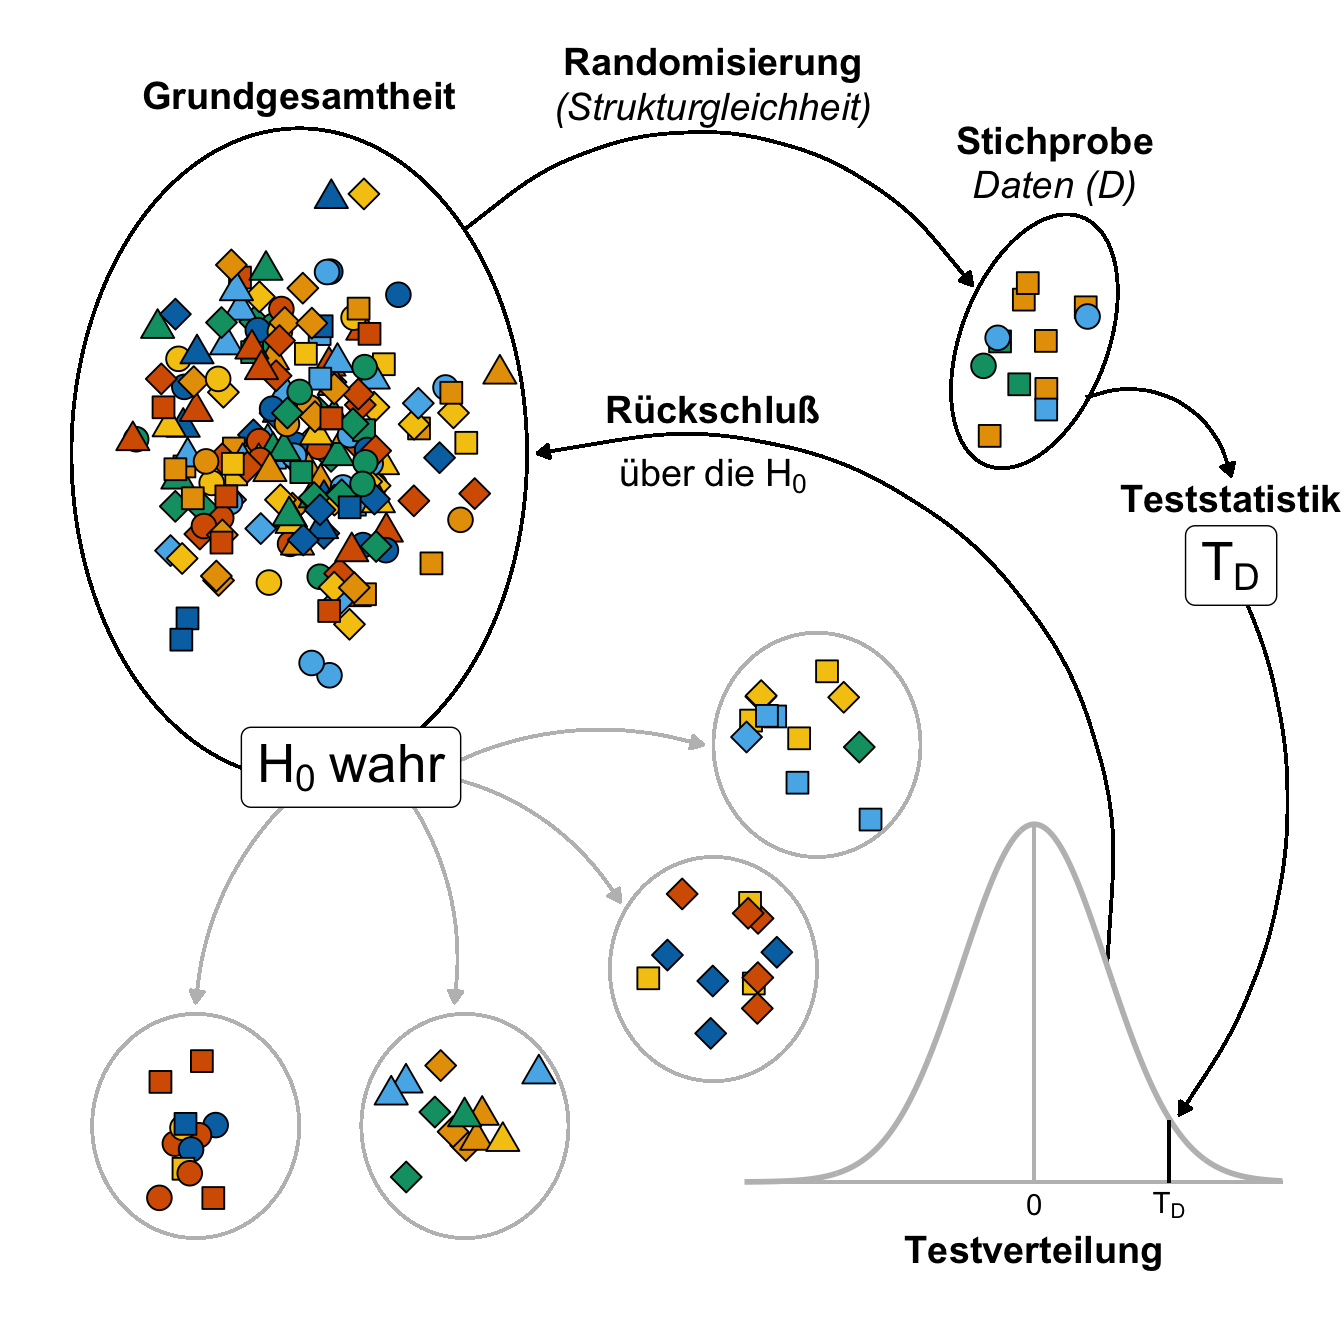
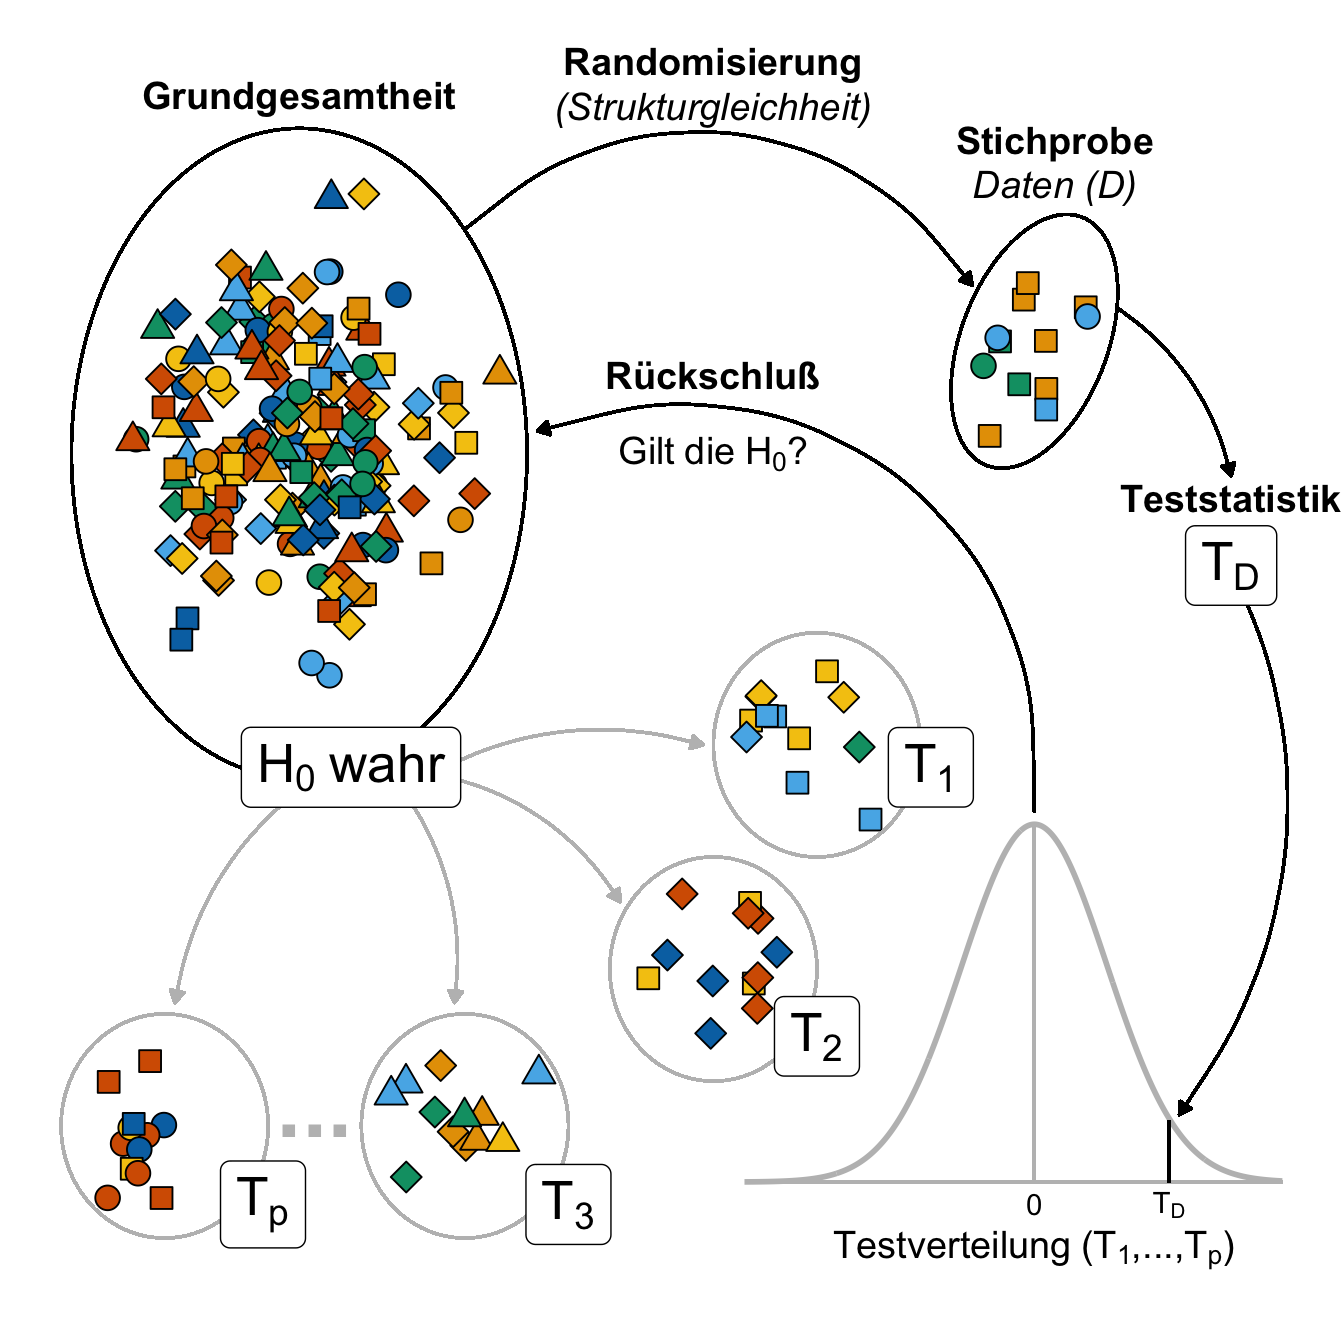
added

diff --git a/docs/stat-tests-preface-theory.html b/docs/stat-tests-preface-theory.html
@@ -799,7 +799,7 @@ window.Quarto = {
 </header>
 
 
-<p><em>Letzte Änderung am 08. April 2024 um 10:06:56</em></p>
+<p><em>Letzte Änderung am 08. April 2024 um 11:01:21</em></p>
 <blockquote class="blockquote">
 <p><em>“Das ist die Logik der Forschung, die nie verifizieren, sondern immer nur jene Erklärungen beibehalten kann, die beim derzeitigen Erkenntnisstand am wenigsten falsifiziert sind.” — Wößmann, L.</em></p>
 </blockquote>
@@ -837,7 +837,7 @@ Beispiel: Bin ich im Urlaub?
 </div>
 <p>Die <em>frequentistische Statistik</em> basiert - wie der Name andeutet - auf Wiederholungen in einem Versuch. Daher der Name frequentistisch. Also eine Frequenz von Beobachtungen. Ist ein wenig gewollt, aber daran gewöhnen wir uns schon mal. Konkret, ein Experiment welches wir frequentistisch Auswerten wollen besteht immer aus biologischen Wiederholungen. Wir müssen also ein Experiment planen in dem wir wiederholt ein Outcome an vielen Tieren, Pflanzen oder Menschen messen. Auf das Outcome gehen wir noch später ein. Im Weiteren konzentrieren wir uns hier auf die <em>parametrische</em> Statistik. Die parametrische Statistik beschäftigt sich mit Parametern von Verteilungen.</p>
 <p>Wenn wir nun ein Experiment durchführen dann erheben wir einmalig Daten <span class="math inline">\(D_1\)</span>. Wir könnten das Experiment wiederholen und erneut Daten <span class="math inline">\(D_2\)</span> erheben. Wir können das Experiment <span class="math inline">\(j\)</span>-mal wiederholen und haben dann Daten von <span class="math inline">\(D_1,..., D_j\)</span>. Dennoch werden wir nie <em>alle</em> Daten erheben können, die mit einem Experiment verbunden sind.</p>
-<p>Nehmen wir das Beispiel, dass wir die Sprungweite von Hunde- und Katzenflöhen vergleichen wollen. Wir können nicht <em>alle</em> Hunde- und Katzenflöhe messen. Wir können nur eine Stichprobe an Daten <span class="math inline">\(D_1\)</span> erheben. Über diese Daten <span class="math inline">\(D_1\)</span> können wir dann später durch statistische Algorithmen eine Aussage treffen. Wichtig ist hier sich zu merken, dass wir eine Grundgesamtheit haben aus der wir eine Stichprobe ziehen. Wir müssen darauf achten, dass die Stichprobe <em>repräsentativ</em> ist und damit <em>strukturgleich</em> zur Grundgesamtheit ist. Die Strukturgleichkeit erreichen wir durch Randomisierung. Wir veranschaulichen diesen Zusammenhang in <a href="#fig-grundgesamtheit-schema" class="quarto-xref">Abbildung&nbsp;<span>3</span></a>. Ein Rückschluss von der Stichprobe ist nur möglich, wenn die Stichprobe die Grundgesamtheit repräsentiert. Auch eine Randomisierung mag dieses Ziel nicht immer erreichen. Im Beispiel der Hundeflöhe könnte wir eine Art an Flöhen übersehen und diese Flohart nicht mit in die Stichprobe aufnehmen. Ein Rückschluß auf diese Flohart wäre dann mit unserem Experiment nicht möglich.</p>
+<p>Nehmen wir das Beispiel, dass wir die Sprungweite von Hunde- und Katzenflöhen vergleichen wollen. Wir können nicht <em>alle</em> Hunde- und Katzenflöhe messen. Wir können nur eine Stichprobe an Daten <span class="math inline">\(D_1\)</span> erheben. Über diese Daten <span class="math inline">\(D_1\)</span> können wir dann später durch statistische Algorithmen eine Aussage treffen. Wichtig ist hier sich zu merken, dass wir eine Grundgesamtheit haben aus der wir eine Stichprobe ziehen. Wir müssen darauf achten, dass die Stichprobe <em>repräsentativ</em> ist und damit <em>strukturgleich</em> zur Grundgesamtheit ist. Die Strukturgleichkeit erreichen wir durch Randomisierung. Wir veranschaulichen diesen Zusammenhang in <a href="#fig-grundgesamtheit-schema" class="quarto-xref">Abbildung&nbsp;<span>2</span></a>. Ein Rückschluss von der Stichprobe ist nur möglich, wenn die Stichprobe die Grundgesamtheit repräsentiert. Auch eine Randomisierung mag dieses Ziel nicht immer erreichen. Im Beispiel der Hundeflöhe könnte wir eine Art an Flöhen übersehen und diese Flohart nicht mit in die Stichprobe aufnehmen. Ein Rückschluß auf diese Flohart wäre dann mit unserem Experiment nicht möglich.</p>
 <div class="cell" data-layout-align="center">
 <div class="cell-output-display">
 <div id="fig-test-preface-theory-01" class="quarto-figure quarto-figure-center quarto-float anchored" data-fig-align="center">
@@ -854,27 +854,17 @@ Abbildung&nbsp;1— foo. <em>[Zum Vergrößern anklicken]</em>
 </div>
 <div class="cell" data-layout-align="center">
 <div class="cell-output-display">
-<div id="fig-test-preface-theory-02" class="quarto-figure quarto-figure-center quarto-float anchored" data-fig-align="center">
-<figure class="quarto-float quarto-float-fig figure">
-<div aria-describedby="fig-test-preface-theory-02-caption-0ceaefa1-69ba-4598-a22c-09a6ac19f8ca">
-<a href="stat-tests-preface-theory_files/figure-html/fig-test-preface-theory-02-1.png" class="lightbox" data-gallery="quarto-lightbox-gallery-2" data-glightbox="description: .lightbox-desc-2"><img src="stat-tests-preface-theory_files/figure-html/fig-test-preface-theory-02-1.png" class="img-fluid quarto-figure quarto-figure-center figure-img" width="672"></a>
-</div>
-<figcaption class="quarto-float-caption-bottom quarto-float-caption quarto-float-fig" id="fig-test-preface-theory-02-caption-0ceaefa1-69ba-4598-a22c-09a6ac19f8ca">
-Abbildung&nbsp;2— foo. <em>[Zum Vergrößern anklicken]</em>
-</figcaption>
-</figure>
-</div>
-</div>
-</div>
 <div id="fig-grundgesamtheit-schema" class="quarto-figure quarto-figure-center quarto-float anchored" data-fig-align="center">
 <figure class="quarto-float quarto-float-fig figure">
 <div aria-describedby="fig-grundgesamtheit-schema-caption-0ceaefa1-69ba-4598-a22c-09a6ac19f8ca">
-<a href="images/test_theory/preface-grundgesamtheit.png" class="lightbox" data-gallery="quarto-lightbox-gallery-3" data-glightbox="description: .lightbox-desc-3"><img src="images/test_theory/preface-grundgesamtheit.png" class="img-fluid quarto-figure quarto-figure-center figure-img" style="width:80.0%"></a>
+<a href="stat-tests-preface-theory_files/figure-html/fig-grundgesamtheit-schema-1.png" class="lightbox" data-gallery="quarto-lightbox-gallery-2" data-glightbox="description: .lightbox-desc-2"><img src="stat-tests-preface-theory_files/figure-html/fig-grundgesamtheit-schema-1.png" class="img-fluid quarto-figure quarto-figure-center figure-img" width="672"></a>
 </div>
 <figcaption class="quarto-float-caption-bottom quarto-float-caption quarto-float-fig" id="fig-grundgesamtheit-schema-caption-0ceaefa1-69ba-4598-a22c-09a6ac19f8ca">
-Abbildung&nbsp;3— Abbildung über die Grundgesamtheit und die Stichprobe(n) <span class="math inline">\(D_1\)</span> bis <span class="math inline">\(D_j\)</span>. Durch Randomisierung wird Sturkturgleichheit erreicht, die dann einen Rückschluß von der Stichprobe auf die Grundgesamtheit erlaubt. Jede Stichprobe ist anders und nicht jede Randomisierung ist erfolgreich was die Strukturgleicheit betrifft.
+Abbildung&nbsp;2— Abbildung über die Grundgesamtheit und die Stichprobe(n) <span class="math inline">\(D_1\)</span> bis <span class="math inline">\(D_j\)</span>. Durch Randomisierung wird Sturkturgleichheit erreicht, die dann einen Rückschluß von der Stichprobe auf die Grundgesamtheit erlaubt. Jede Stichprobe ist anders und nicht jede Randomisierung ist erfolgreich was die Strukturgleicheit betrifft. <em>[Zum Vergrößern anklicken]</em>
 </figcaption>
 </figure>
+</div>
+</div>
 </div>
 <p><a href="#tbl-grundgesamtheit-stichprobe" class="quarto-xref">Tabelle&nbsp;<span>1</span></a> zeigt nochmal die Zusammenfassung von der Grundgesamtheit un der Stichprobe im Vergleich. Wichtig ist zu merken, dass wir mit unserem kleinen Experiment Daten <span class="math inline">\(D\)</span> generieren mit denen wir einen Rückschluß und somit eine Verallgemeinerung erreichen wollen.</p>
 <div id="tbl-grundgesamtheit-stichprobe" class="quarto-float anchored">
@@ -922,8 +912,7 @@ Tabelle&nbsp;1— Vergleich von Grundgesamtheit und Stichprobe.
 
 <div class="hidden" aria-hidden="true">
 <span class="glightbox-desc lightbox-desc-1">Abbildung&nbsp;1— foo. <em>[Zum Vergrößern anklicken]</em></span>
-<span class="glightbox-desc lightbox-desc-2">Abbildung&nbsp;2— foo. <em>[Zum Vergrößern anklicken]</em></span>
-<span class="glightbox-desc lightbox-desc-3">Abbildung&nbsp;3— Abbildung über die Grundgesamtheit und die Stichprobe(n) <span class="math inline">\(D_1\)</span> bis <span class="math inline">\(D_j\)</span>. Durch Randomisierung wird Sturkturgleichheit erreicht, die dann einen Rückschluß von der Stichprobe auf die Grundgesamtheit erlaubt. Jede Stichprobe ist anders und nicht jede Randomisierung ist erfolgreich was die Strukturgleicheit betrifft.</span>
+<span class="glightbox-desc lightbox-desc-2">Abbildung&nbsp;2— Abbildung über die Grundgesamtheit und die Stichprobe(n) <span class="math inline">\(D_1\)</span> bis <span class="math inline">\(D_j\)</span>. Durch Randomisierung wird Sturkturgleichheit erreicht, die dann einen Rückschluß von der Stichprobe auf die Grundgesamtheit erlaubt. Jede Stichprobe ist anders und nicht jede Randomisierung ist erfolgreich was die Strukturgleicheit betrifft. <em>[Zum Vergrößern anklicken]</em></span>
 </div>
 <div id="refs" class="references csl-bib-body hanging-indent" role="list">
 <div id="ref-gigerenzer2004null" class="csl-entry" role="listitem">
@@ -1557,7 +1546,7 @@ window.document.addEventListener("DOMContentLoaded", function (event) {
 </div>
   </div>
 </footer>
-<script>var lightboxQuarto = GLightbox({"descPosition":"bottom","selector":".lightbox","loop":false,"closeEffect":"zoom","openEffect":"zoom"});
+<script>var lightboxQuarto = GLightbox({"descPosition":"bottom","selector":".lightbox","loop":false,"openEffect":"zoom","closeEffect":"zoom"});
 window.onload = () => {
   lightboxQuarto.on('slide_before_load', (data) => {
     const { slideIndex, slideNode, slideConfig, player, trigger } = data;
